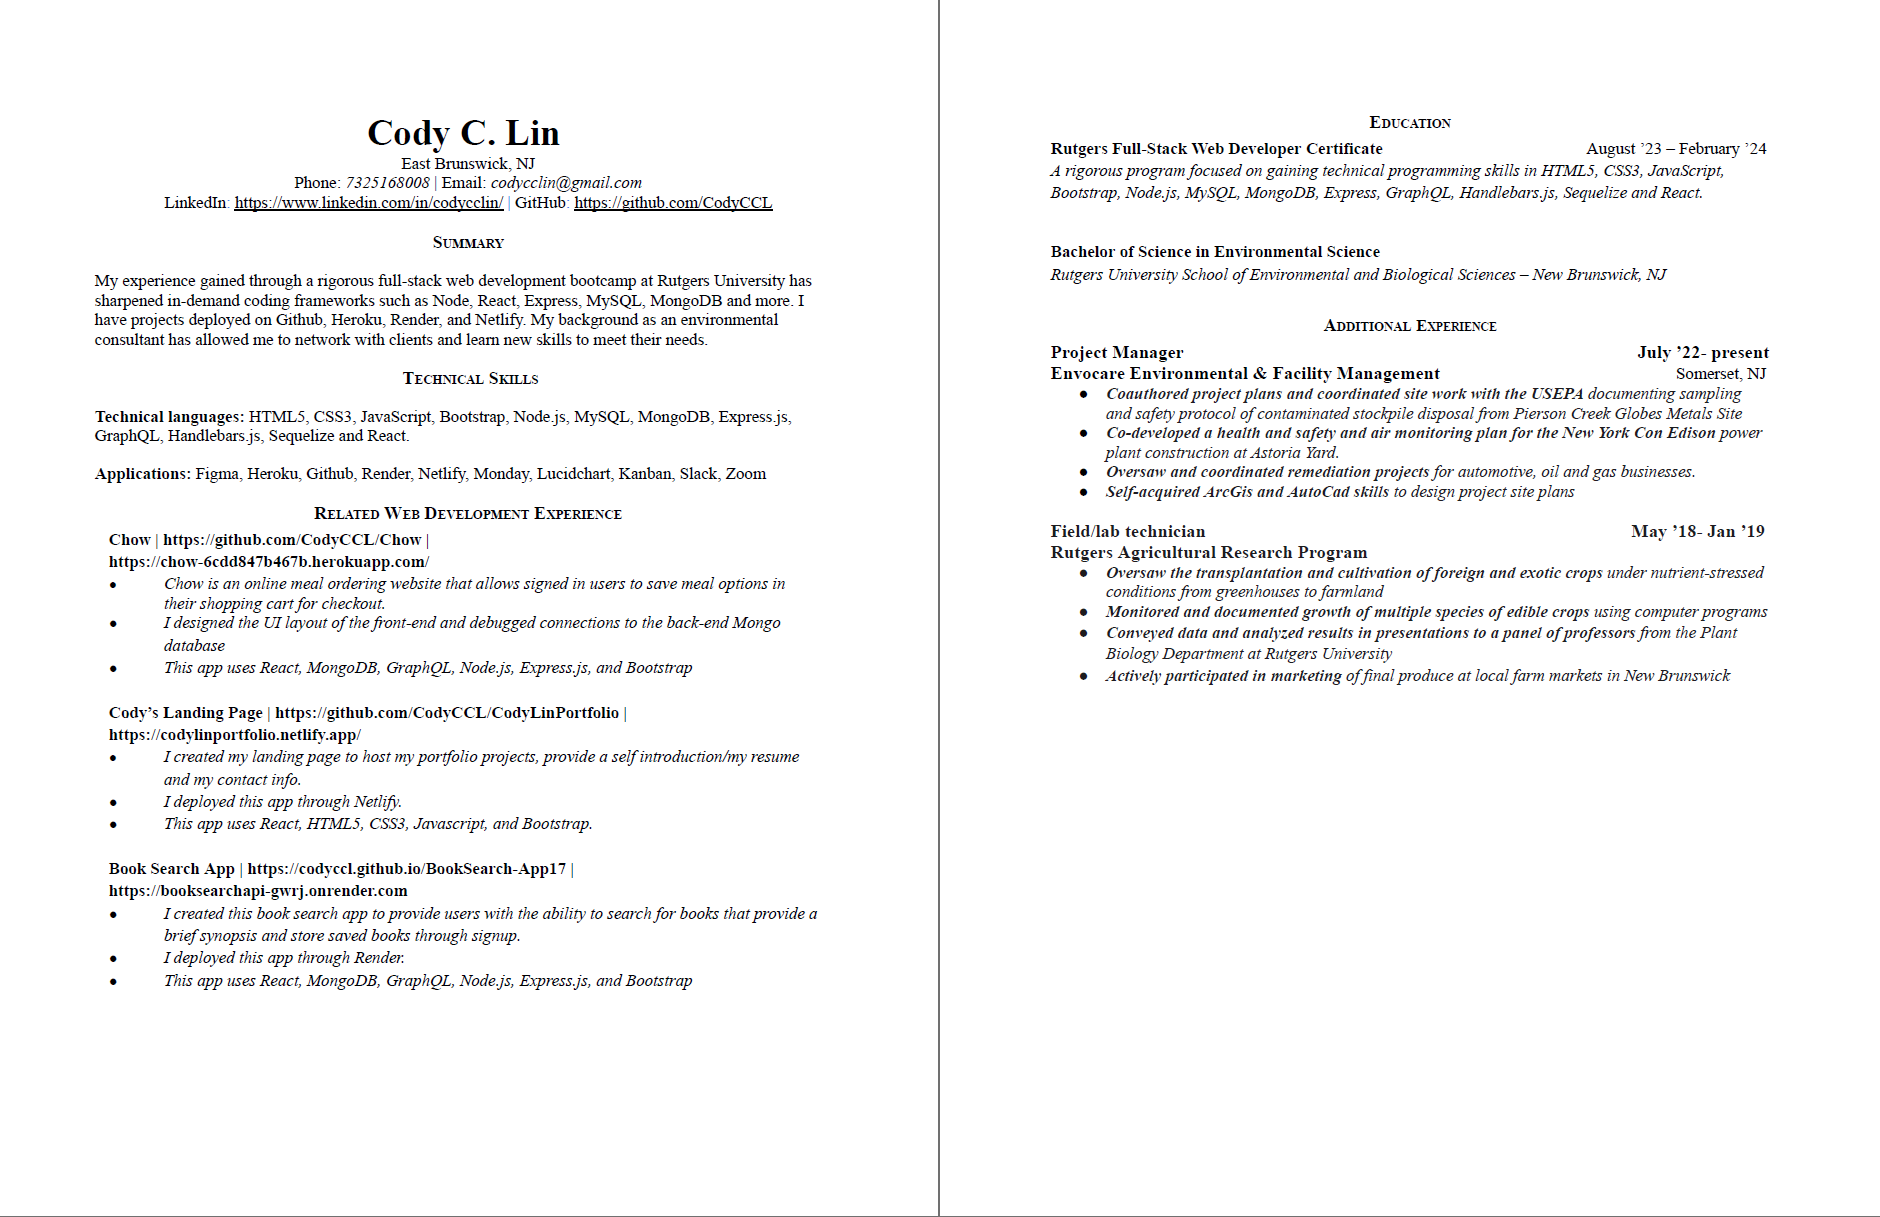
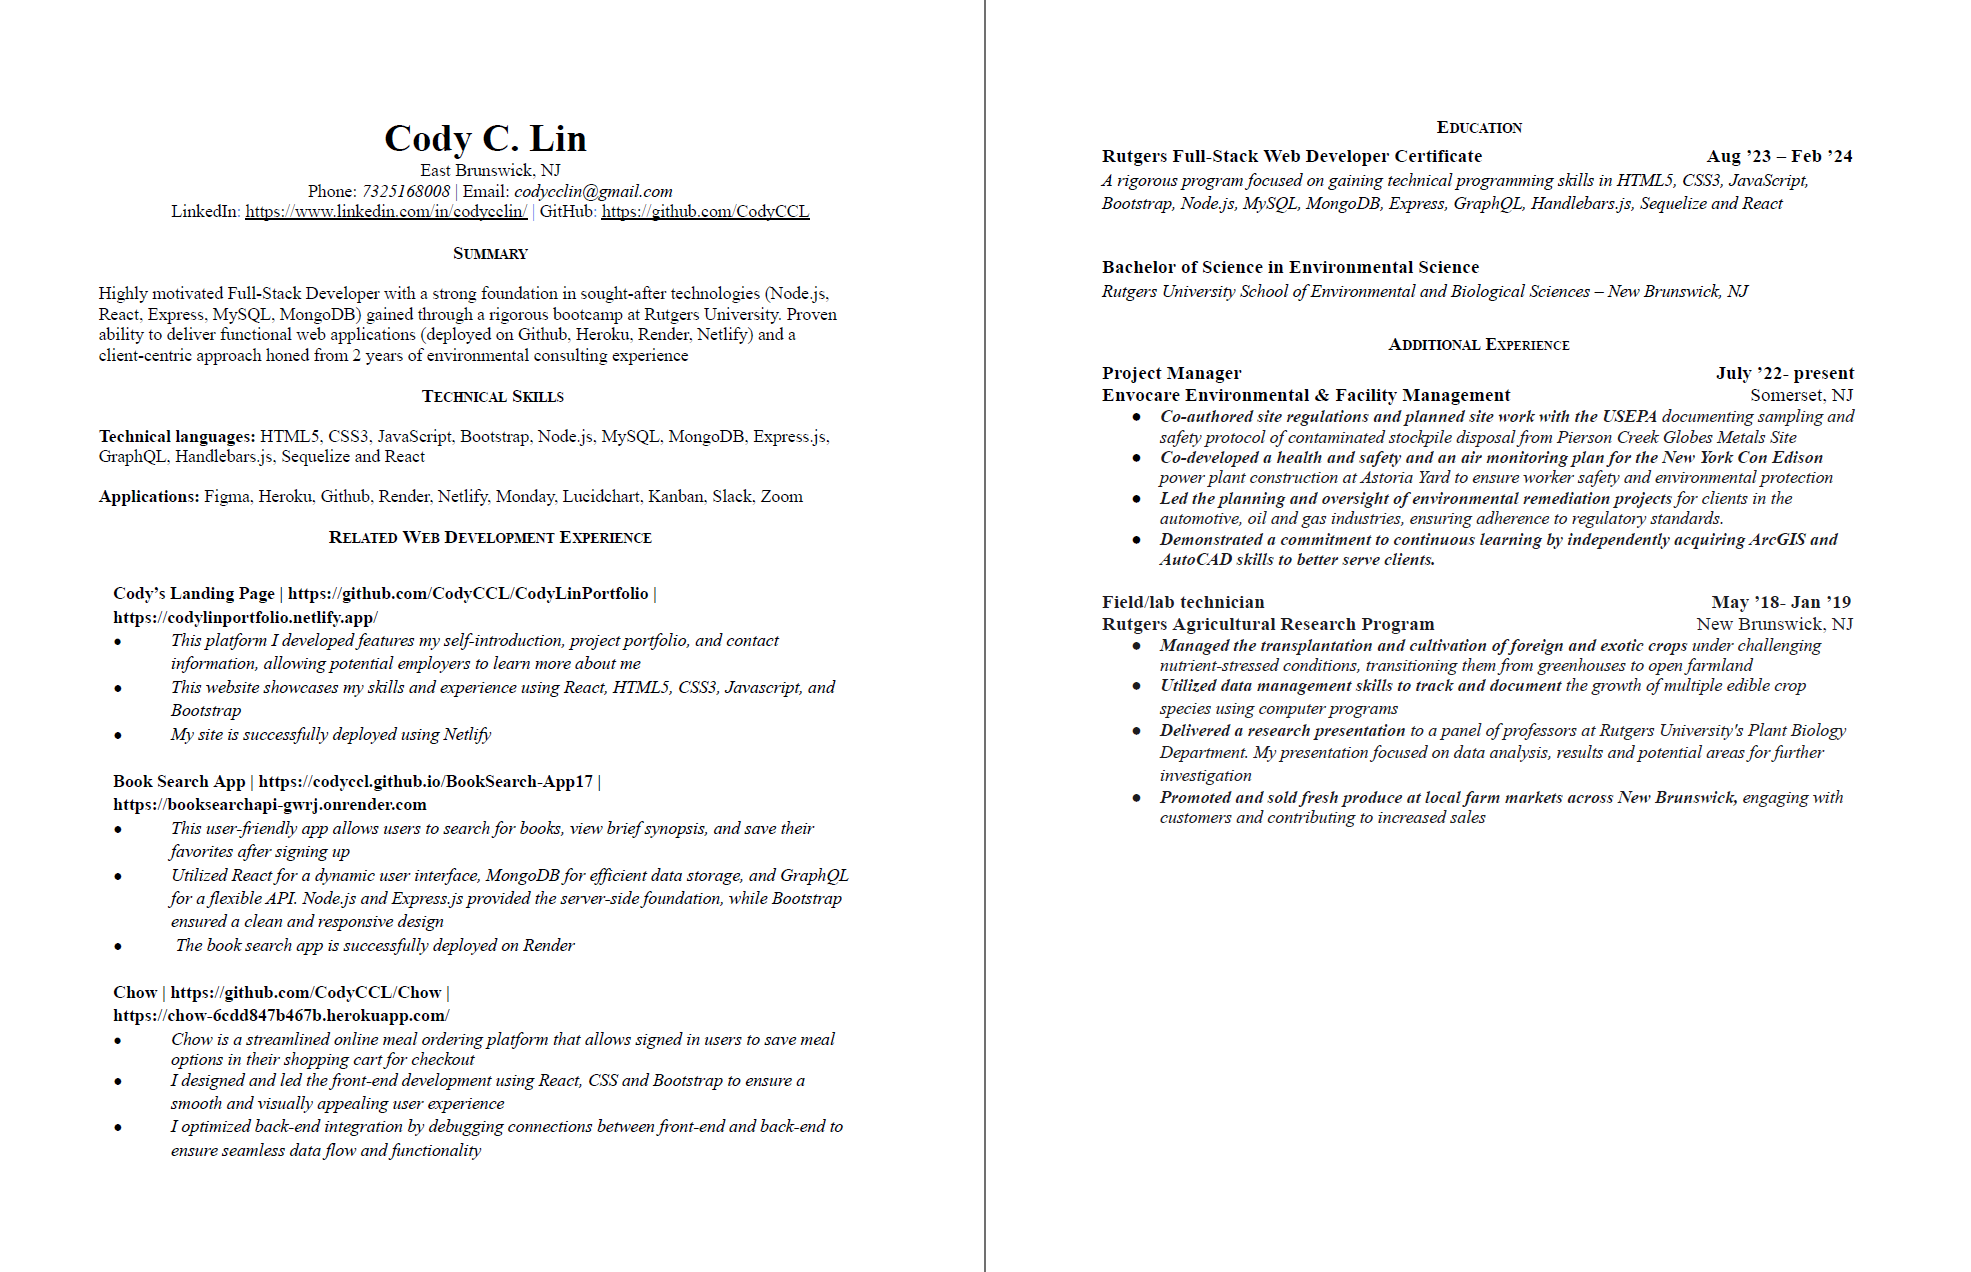
upd resume and intro

Changed region(s): [[0.0309, 0.0937, 0.4319, 0.9055], [0.5553, 0.0937, 0.9564, 0.6557], [0.0, 0.9992, 1.0, 1.0]]

diff --git a/src/pages/aboutme.jsx b/src/pages/aboutme.jsx
@@ -36,10 +36,12 @@ const aboutme = () => {
         <Col className='col-md-8'>
         <Card className='text-dark '>
           <CardBody style={styles.text}> <strong>
-          Hello, I am Cody, a fullstack web developer currently working as an environmental consultant for Federal and State agencies. 
-          My employment as a consultant has given me perspective on acquiring on the job skills to adapt to client needs and deadlines.
-          Driven by a passion for problem-solving, I enjoy exploring new technologies and expanding functionality of projects I build 
-          as each project presents a unique opportunity for me to expand my technical skills.</strong>
+          Hi, I'm Cody! I'm a passionate full-stack web developer with a strong foundation in building 
+          dynamic web applications. While currently working as an environmental consultant for Federal and State agencies, 
+          my experience has instilled in me the ability to adapt quickly and deliver results under client-driven deadlines.<br></br><br></br>
+
+          Fueled by a problem-solving mindset, I thrive in environments that encourage exploration of new technologies. 
+          Each project I tackle becomes an opportunity to expand my technical skillset and deliver projects with enhanced functionality.</strong>
         </CardBody>
         </Card>
         </Col>
